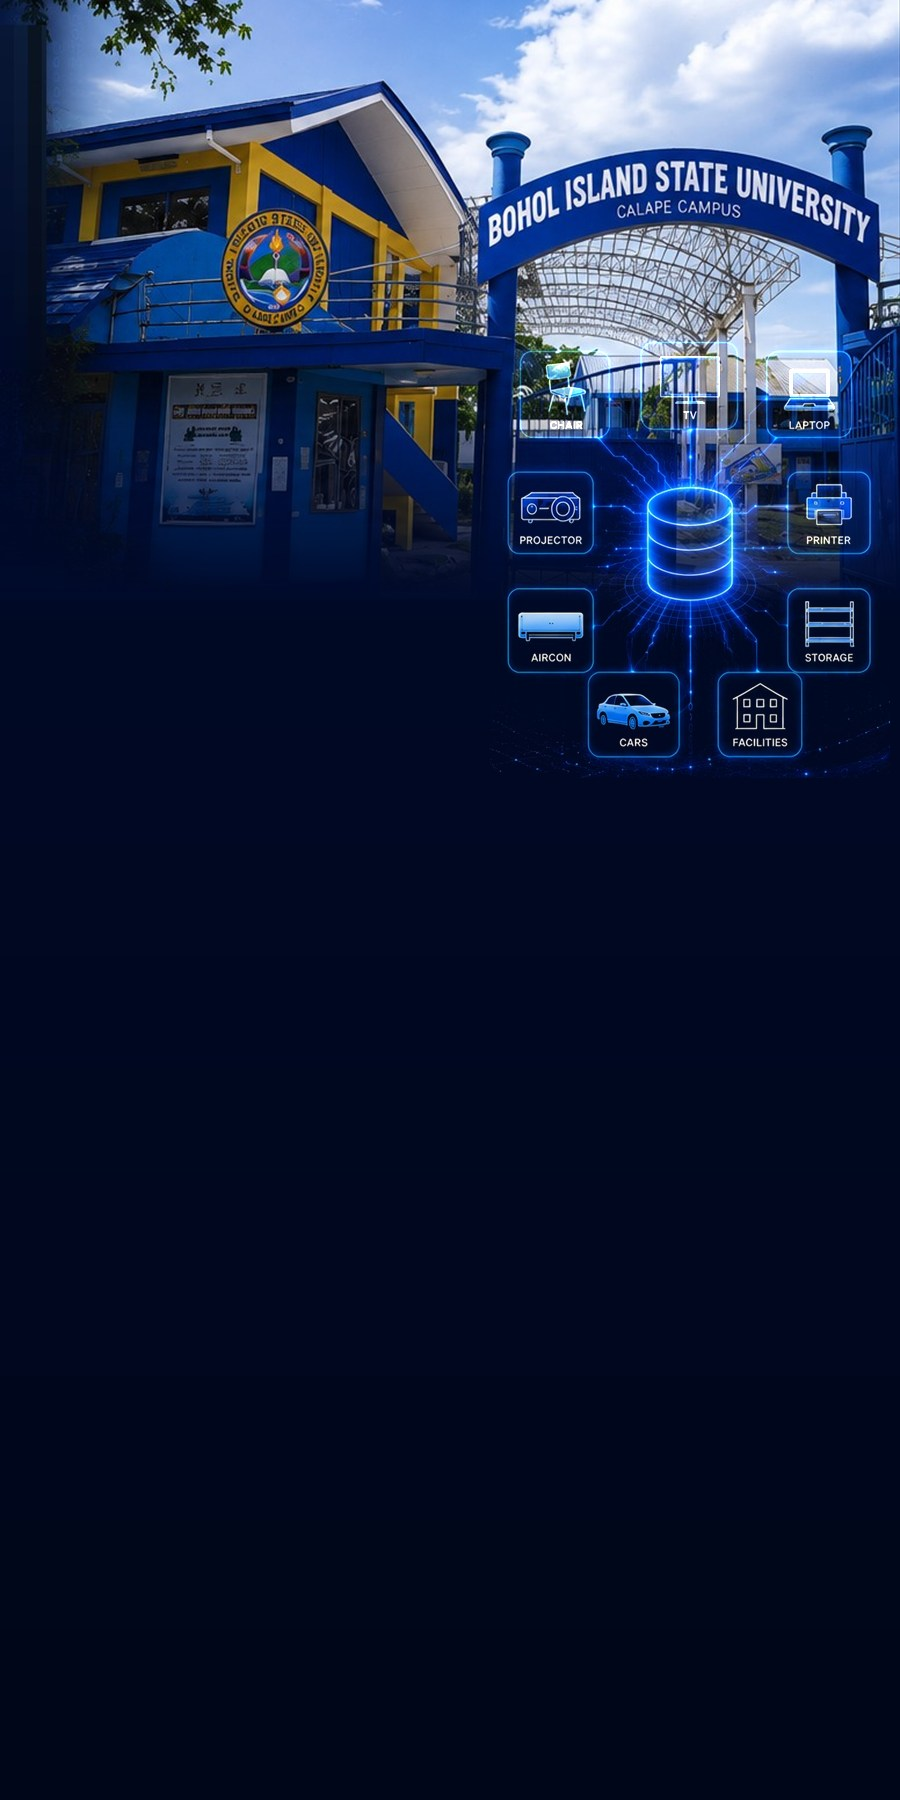
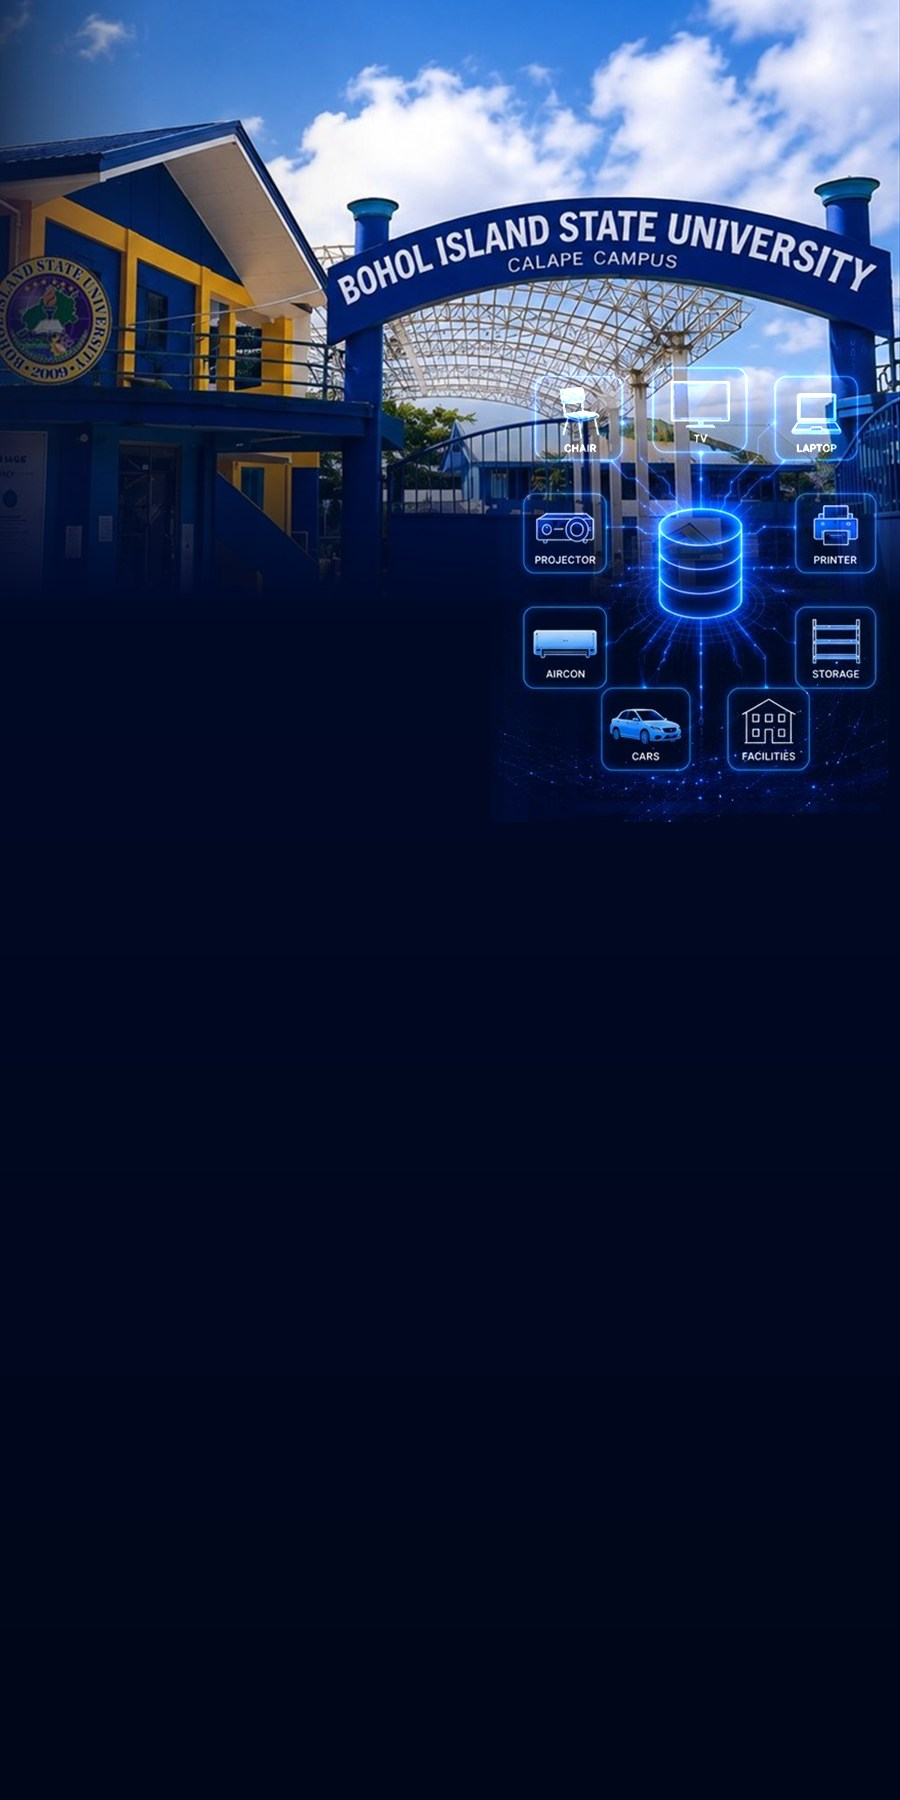
Fix change-password re-auth; new campus artwork, navy sidebar, blue primary
Change password
- changePassword re-authenticated using profiles.email, an ordinary editable
  column, instead of the address on the auth account. The two match for anyone
  who registered through the app because signUp writes both, but nothing keeps
  them in step and the column is blank on seeded rows and on accounts made by
  the create-student function. When they differed signInWithPassword failed and
  the failure was reported as "Current password is incorrect.", so a correct
  password looked wrong and the form could never be completed. It now reads the
  address from the live session.
- notify_password_changed is wrapped, not just ignored. It ships in migration
  20260729230000, so on a database without that applied the call rejects — and
  it runs AFTER the password is updated, so the rejection reported failure for
  a change that had already succeeded.
- The submit handler uses try/finally. Any rejection previously skipped
  setPending(false), leaving the button stuck on "Updating…" with no error,
  which is indistinguishable from the feature being broken.
- The card takes no props now; the account comes from the session.

Artwork
- Login hero and dashboard backdrop both use the sharper campus photograph,
  with the real BISU seal composited over the building's painted one — the
  photo's own upper arc is AI garble. Both screens read from the same corrected
  file so the mark cannot drift between them.
[…]

Changed region(s): [[0.0, 0.0, 1.0, 0.4667]]

diff --git a/src/index.css b/src/index.css
@@ -64,9 +64,18 @@
   --glass-blur: 16px;
   /* Wash applied over the photo so body text keeps AA contrast. The top is
      lighter (campus visible behind the hero), the bottom denser for tables. */
-  --backdrop-veil-top: rgba(246, 245, 248, 0.46);
-  --backdrop-veil: rgba(246, 245, 248, 0.64);
-  --backdrop-veil-bottom: rgba(246, 245, 248, 0.78);
+  /* Thinned so the campus reads through the way it does on the login page.
+     Measured against the photo's dark decile (rgb(0,21,70)) with body text
+     #1f1a29: 0.60 gives 6.1:1, 0.46 gives 4.1:1, 0.32 gives 2.5:1.
+     Only the bottom band clears 4.5:1 on its own, which is deliberate and was
+     already true at the old 0.46 top — every piece of text in the app sits on a
+     glass-panel (0.82 white) or an opaque card, never straight on the backdrop,
+     and a panel over even the darkest part of this photo measures ~12:1.
+     The constraint that buys: new UI must keep text on a panel. Text dropped
+     directly onto the page background will not pass in the upper two thirds. */
+  --backdrop-veil-top: rgba(246, 245, 248, 0.32);
+  --backdrop-veil: rgba(246, 245, 248, 0.46);
+  --backdrop-veil-bottom: rgba(246, 245, 248, 0.6);
 }
 
 :root[data-theme='dark'] {
@@ -92,9 +101,12 @@
   --glass-bg: rgba(30, 26, 41, 0.78);
   --glass-bg-strong: rgba(30, 26, 41, 0.9);
   --glass-border: rgba(255, 255, 255, 0.1);
-  --backdrop-veil-top: rgba(20, 17, 28, 0.68);
-  --backdrop-veil: rgba(20, 17, 28, 0.82);
-  --backdrop-veil-bottom: rgba(20, 17, 28, 0.9);
+  /* Thinned by the same amount as the light theme. This veil darkens rather
+     than lightens, so it works with the theme's pale text instead of against
+     it, and the photo's bright sky is what it has to hold down. */
+  --backdrop-veil-top: rgba(20, 17, 28, 0.54);
+  --backdrop-veil: rgba(20, 17, 28, 0.68);
+  --backdrop-veil-bottom: rgba(20, 17, 28, 0.8);
 
   color: var(--color-text-primary);
   background: var(--color-bg);
@@ -116,7 +128,7 @@ body[data-theme='dark'] {
 }
 
 ::selection {
-  background: rgba(75, 42, 123, 0.22);
+  background: rgba(18, 62, 175, 0.22);
   color: var(--color-text-primary);
 }
 
@@ -214,17 +226,23 @@ body[data-theme='dark'] ::selection {
      paint over it with their own translucent surfaces. */
   .app-backdrop {
     position: fixed;
-    /* Bleed past the edges so the blur below never reveals a transparent halo. */
-    inset: -24px;
+    inset: 0;
     z-index: 0;
     pointer-events: none;
-    background-image: url('/bisucal.webp');
+    /* A 1536x1024 photograph of the campus gate, with the real BISU seal
+       composited over the building's painted one — the photo's own upper arc is
+       AI garble ("BOH ISLAND STAT E EVERSITS"), while its lower arc happens to
+       read correctly.
+       Resolution is the point of this source. It replaced a 686x1024 crop of
+       the login hero, which cover magnified ~2.8x on a 1920px viewport; there
+       was not enough detail to carry that, so the gate lettering and the seal
+       arrived soft. At 1536 wide cover is ~1.25x and both stay legible. Before
+       that it was bisucal.webp at 474x355 — a ~4x upscale, which is why
+       blur(3px) and scale(1.05) used to sit here to hide the mush. Both gone. */
+    background-image: url('/campus-backdrop.jpg');
     background-size: cover;
     background-position: center;
     background-repeat: no-repeat;
-    /* Softens the low-res source and unifies it with the frosted panels. */
-    filter: blur(3px);
-    transform: scale(1.05);
   }
 
   /* Gradient veil painted over the photo: lighter at the top so the campus
@@ -235,7 +253,7 @@ body[data-theme='dark'] ::selection {
     position: absolute;
     inset: 0;
     background:
-      radial-gradient(120% 80% at 70% 0%, rgba(75, 42, 123, 0.12), transparent 60%),
+      radial-gradient(120% 80% at 70% 0%, rgba(18, 62, 175, 0.12), transparent 60%),
       linear-gradient(to bottom, var(--backdrop-veil-top), var(--backdrop-veil) 55%, var(--backdrop-veil-bottom));
   }
 

diff --git a/src/backend/lib/supabase/auth.ts b/src/backend/lib/supabase/auth.ts
@@ -111,7 +111,23 @@ export async function sendPasswordReset(identifier: string) {
 	return { error: null }
 }
 
-export async function changePassword(email: string, currentPassword: string, newPassword: string): Promise<{ error: string | null }> {
+export async function changePassword(currentPassword: string, newPassword: string): Promise<{ error: string | null }> {
+	// Re-authenticate against the address on the AUTH account, read from the
+	// live session — NOT the one the caller holds in profiles.email.
+	//
+	// The two match for anyone who registered through this app, because signUp
+	// writes the same address to both. They do not have to: profiles.email is an
+	// ordinary editable column, it is blank on rows seeded or created by the
+	// create-student function, and nothing keeps it in step with auth.users.
+	// Signing in with the wrong address fails, and the failure was reported as
+	// "Current password is incorrect." — so a correct password looked wrong and
+	// the form could never be completed.
+	const { data: userData, error: userError } = await supabase.auth.getUser()
+	const email = userData?.user?.email
+	if (userError || !email) {
+		return { error: 'Your session has expired. Log in again and retry.' }
+	}
+
 	const { error: verifyError } = await supabase.auth.signInWithPassword({ email, password: currentPassword })
 	if (verifyError) {
 		return { error: 'Current password is incorrect.' }
@@ -119,14 +135,27 @@ export async function changePassword(email: string, currentPassword: string, new
 
 	const { error } = await supabase.auth.updateUser({ password: newPassword })
 	if (error) {
+		// Supabase phrases this one as a raw API string; the rest already read
+		// like sentences.
+		if (/should be different/i.test(error.message)) {
+			return { error: 'The new password must be different from your current one.' }
+		}
 		return { error: error.message }
 	}
 
 	// Record it in the user's own notifications so a password change they did not
-	// make is visible to them. Deliberately not fatal — the returned error is
-	// ignored: the password HAS already changed by this point, so surfacing a
-	// failure here would tell the user their change did not work when it did.
-	await supabase.rpc('notify_password_changed')
+	// make is visible to them. Deliberately not fatal — the password HAS already
+	// changed by this point, so a failure here must not be reported as one.
+	//
+	// Wrapped as well as ignored: notify_password_changed ships in migration
+	// 20260729230000, so on a database where that has not been applied the call
+	// rejects, and an unhandled rejection here would take the whole function
+	// down after the password was already updated.
+	try {
+		await supabase.rpc('notify_password_changed')
+	} catch {
+		// intentionally swallowed — see above
+	}
 
 	return { error: null }
 }

diff --git a/src/frontend/features/settings/ChangePasswordCard.tsx b/src/frontend/features/settings/ChangePasswordCard.tsx
@@ -4,14 +4,15 @@ import { KeyRound } from 'lucide-react'
 import Card from '@/components/ui/Card'
 import Button from '@/components/ui/Button'
 import { changePassword } from '@/backend/lib/supabase/auth'
-import type { SchoolUser } from '@/backend/types/school'
 
 const inputClass = 'w-full rounded-lg border border-border bg-bg px-3 py-2 text-sm text-text-primary outline-none transition focus:border-primary'
 const labelClass = 'mb-1.5 block text-sm font-medium text-text-primary'
 
 const NEW_PASSWORD_PATTERN = /^(?=.*\d).{8,}$/
 
-export default function ChangePasswordCard({ user }: { user: SchoolUser }) {
+// Takes no props: the account to re-authenticate is read from the live auth
+// session inside changePassword, not passed in from the profile row.
+export default function ChangePasswordCard() {
 	const [currentPassword, setCurrentPassword] = useState('')
 	const [newPassword, setNewPassword] = useState('')
 	const [confirmPassword, setConfirmPassword] = useState('')
@@ -37,18 +38,27 @@ export default function ChangePasswordCard({ user }: { user: SchoolUser }) {
 		}
 
 		setPending(true)
-		const result = await changePassword(user.email, currentPassword, newPassword)
-		setPending(false)
+		// try/finally so the button cannot stick on "Updating…". Without it any
+		// rejection — a dropped connection mid-request, say — skips setPending(false)
+		// and leaves the form permanently disabled with no error shown, which
+		// reads exactly like the feature being broken.
+		try {
+			const result = await changePassword(currentPassword, newPassword)
 
-		if (result.error) {
-			setError(result.error)
-			return
+			if (result.error) {
+				setError(result.error)
+				return
+			}
+
+			setCurrentPassword('')
+			setNewPassword('')
+			setConfirmPassword('')
+			setSuccess('Password updated successfully.')
+		} catch (cause) {
+			setError(cause instanceof Error ? cause.message : 'Could not update the password. Try again.')
+		} finally {
+			setPending(false)
 		}
-
-		setCurrentPassword('')
-		setNewPassword('')
-		setConfirmPassword('')
-		setSuccess('Password updated successfully.')
 	}
 
 	return (

diff --git a/src/frontend/features/settings/SettingsPage.tsx b/src/frontend/features/settings/SettingsPage.tsx
@@ -325,7 +325,7 @@ export default function SettingsPage({ user, onAvatarUpdated }: { user: SchoolUs
 			{tab === 'profile' ? (
 				<>
 					<ProfileCard user={user} onAvatarUpdated={onAvatarUpdated} />
-					<ChangePasswordCard user={user} />
+					<ChangePasswordCard />
 					<ActivityHistoryCard user={user} />
 				</>
 			) : tab === 'general' && isSuperAdmin ? (
